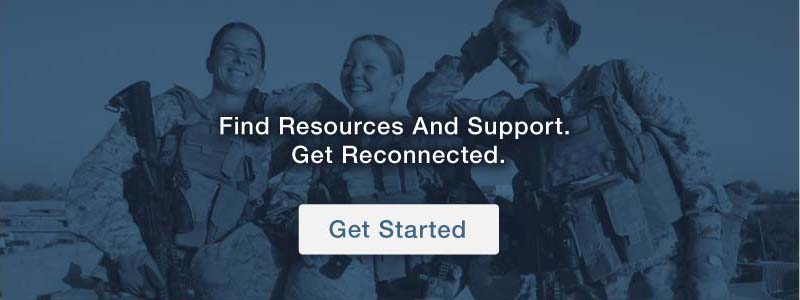
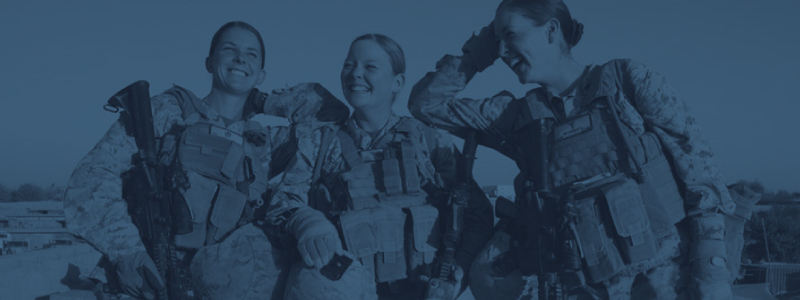
Updated image to be one without button stuff

diff --git a/app/assets/stylesheets/static_pages.css.sass b/app/assets/stylesheets/static_pages.css.sass
@@ -1,6 +1,6 @@
 @import "variables"
 .home-image
-  background: url('home_image.jpg')
+  background: url('home_image.jpg') center
   height: 300px
   margin-bottom: 20px
   padding: 110px 0px
